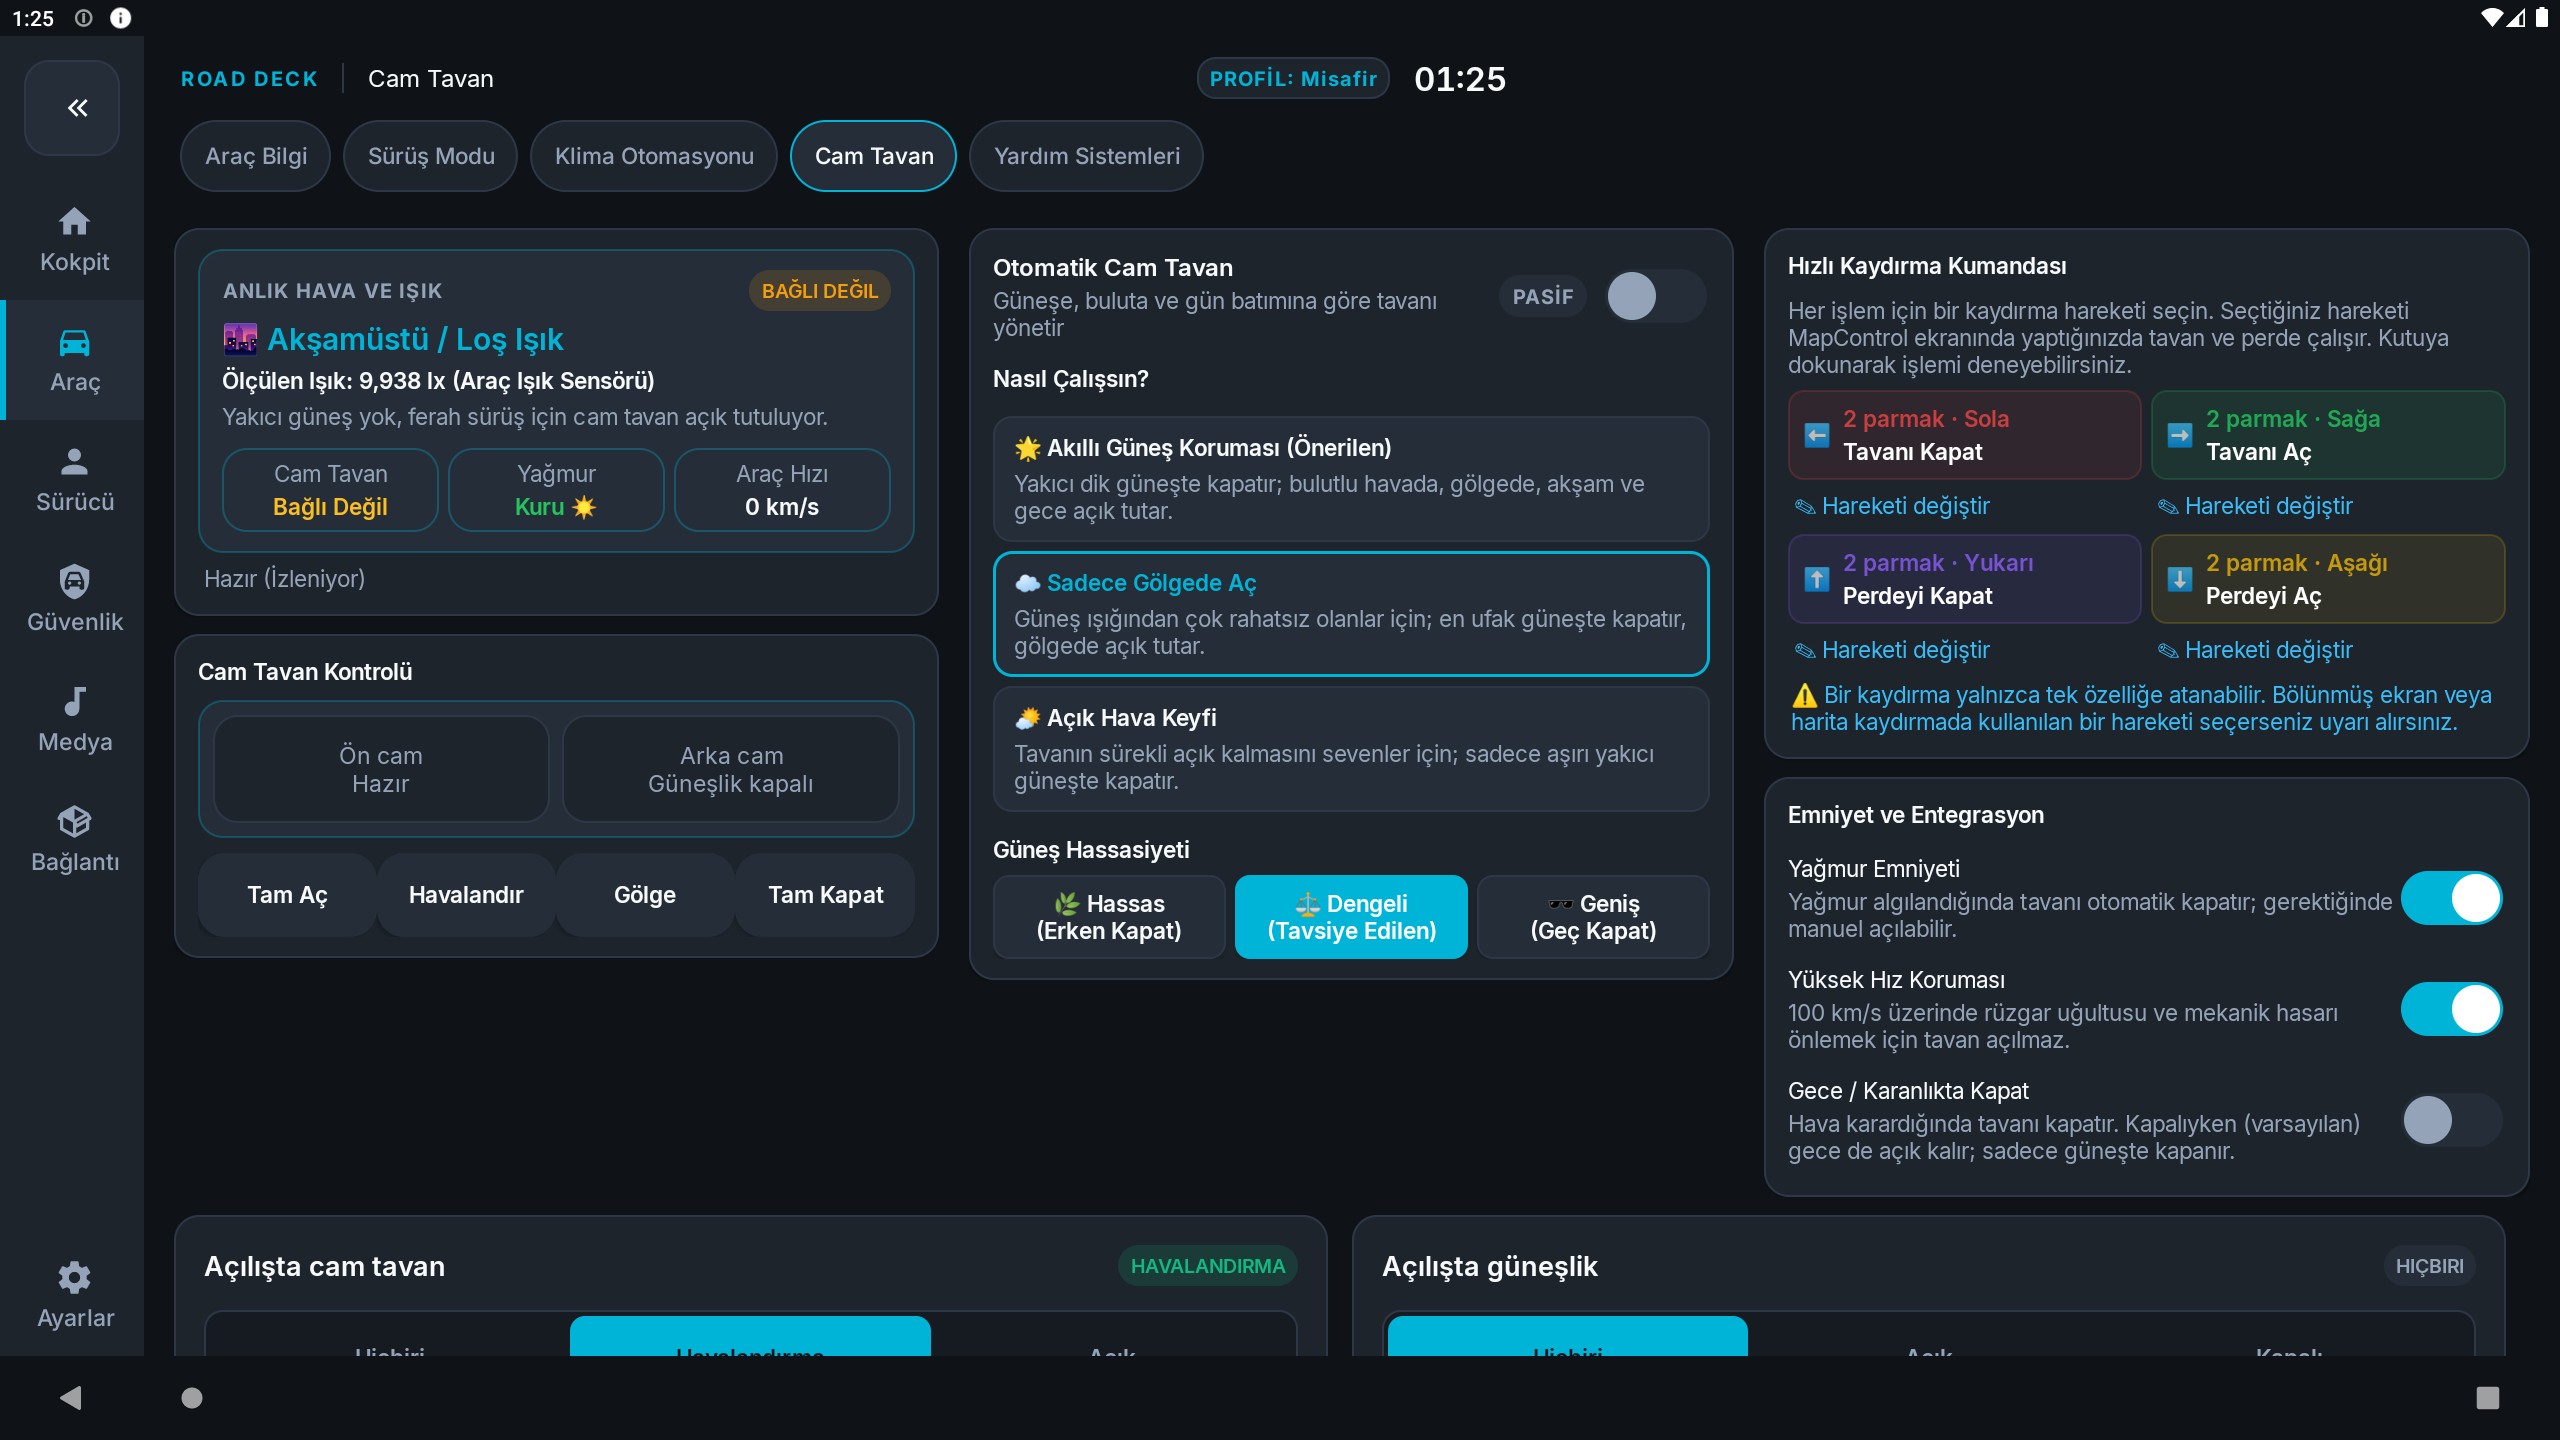
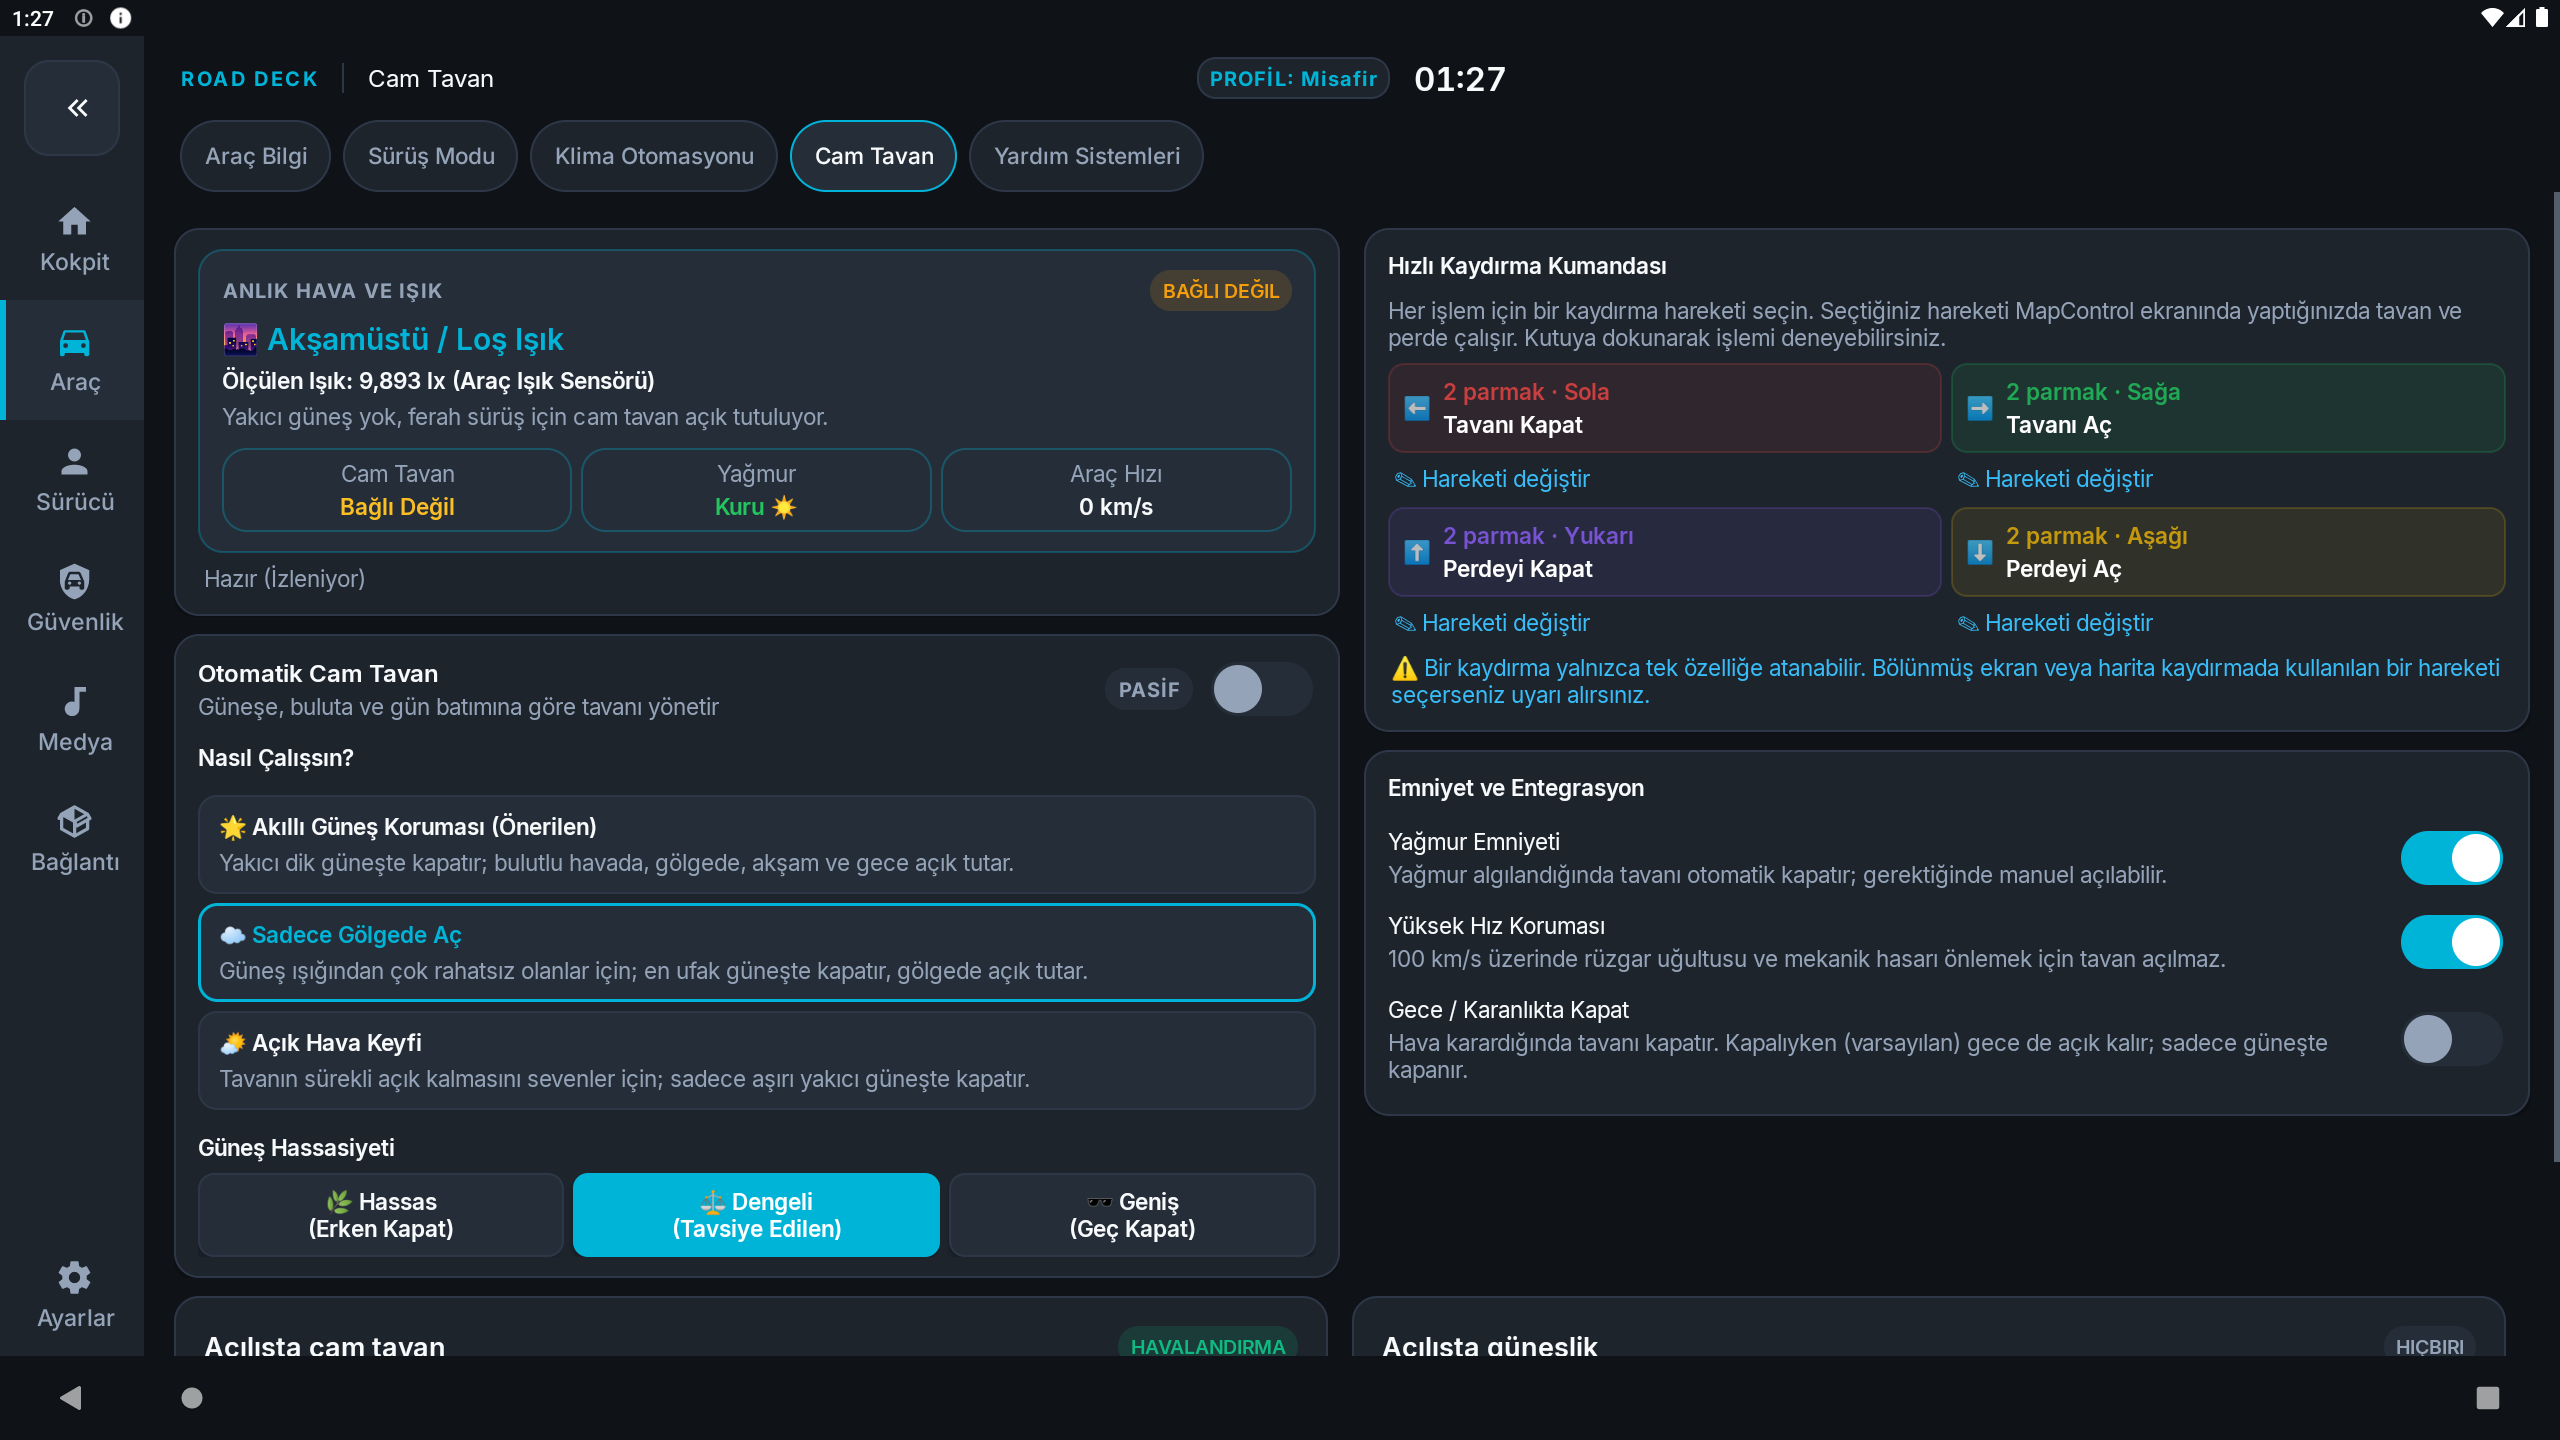
fix: cam tavan manuel karti kaldirildi
- Cam Tavan Kontrolu karti kaldirildi
- Iki sutunlu kart duzeni: canli durum + otomasyon / hizli kumanda + emniyet
- Kullanilmayan manuel kontrol stringleri temizlendi

diff --git a/app/src/main/java/com/mapcontrol/ui/builder/SunroofAutomationTabBuilder.java b/app/src/main/java/com/mapcontrol/ui/builder/SunroofAutomationTabBuilder.java
@@ -76,8 +76,6 @@ public final class SunroofAutomationTabBuilder implements SunroofAutomationEngin
     private TextView tvRainState;
     private TextView tvSpeed;
     private TextView tvStatusMessage;
-    private TextView tvManualFront;
-    private TextView tvManualRear;
     private com.mapcontrol.ui.cockpit.StatusBadge liveBadge;
 
     // Ayar View'ları
@@ -123,7 +121,6 @@ public final class SunroofAutomationTabBuilder implements SunroofAutomationEngin
 
         if (isPortrait) {
             root.addView(buildLiveConditionCard(density));
-            root.addView(buildManualSunroofCard(density));
             root.addView(buildAutomationModeCard(density));
             root.addView(buildQuickControlsCard(density));
             root.addView(buildSafetyCard(density));
@@ -132,23 +129,18 @@ public final class SunroofAutomationTabBuilder implements SunroofAutomationEngin
             columns.setOrientation(LinearLayout.HORIZONTAL);
             columns.setBaselineAligned(false);
 
-            LinearLayout colLeft = new LinearLayout(context);
-            colLeft.setOrientation(LinearLayout.VERTICAL);
-            colLeft.addView(buildLiveConditionCard(density));
-            colLeft.addView(buildManualSunroofCard(density));
+            LinearLayout leftColumn = new LinearLayout(context);
+            leftColumn.setOrientation(LinearLayout.VERTICAL);
+            leftColumn.addView(buildLiveConditionCard(density));
+            leftColumn.addView(buildAutomationModeCard(density));
 
-            LinearLayout colCenter = new LinearLayout(context);
-            colCenter.setOrientation(LinearLayout.VERTICAL);
-            colCenter.addView(buildAutomationModeCard(density));
+            LinearLayout rightColumn = new LinearLayout(context);
+            rightColumn.setOrientation(LinearLayout.VERTICAL);
+            rightColumn.addView(buildQuickControlsCard(density));
+            rightColumn.addView(buildSafetyCard(density));
 
-            LinearLayout colRight = new LinearLayout(context);
-            colRight.setOrientation(LinearLayout.VERTICAL);
-            colRight.addView(buildQuickControlsCard(density));
-            colRight.addView(buildSafetyCard(density));
-
-            columns.addView(colLeft, weightedColumn(0, dp(10, density)));
-            columns.addView(colCenter, weightedColumn(dp(10, density), dp(10, density)));
-            columns.addView(colRight, weightedColumn(dp(10, density), 0));
+            columns.addView(leftColumn, weightedCard(0, dp(8, density)));
+            columns.addView(rightColumn, weightedCard(dp(8, density), 0));
             root.addView(columns);
         }
 
@@ -161,7 +153,7 @@ public final class SunroofAutomationTabBuilder implements SunroofAutomationEngin
         return root;
     }
 
-    private LinearLayout.LayoutParams weightedColumn(int left, int right) {
+    private LinearLayout.LayoutParams weightedCard(int left, int right) {
         LinearLayout.LayoutParams lp = new LinearLayout.LayoutParams(
                 0, LinearLayout.LayoutParams.WRAP_CONTENT, 1f);
         lp.leftMargin = left;
@@ -257,92 +249,6 @@ public final class SunroofAutomationTabBuilder implements SunroofAutomationEngin
 
         titleRow.addView(heading, new LinearLayout.LayoutParams(0, LinearLayout.LayoutParams.WRAP_CONTENT, 1f));
         return titleRow;
-    }
-
-    private View buildManualSunroofCard(float density) {
-        LinearLayout card = createPanelCard(density);
-        card.addView(createSectionTitle(context.getString(R.string.ck_sunroof_manual_title), density));
-
-        LinearLayout visual = new LinearLayout(context);
-        visual.setOrientation(LinearLayout.HORIZONTAL);
-        visual.setPadding(dp(10, density), dp(10, density), dp(10, density), dp(10, density));
-        CockpitSurfaces.level2(visual);
-        LinearLayout.LayoutParams visualLp = new LinearLayout.LayoutParams(
-                LinearLayout.LayoutParams.MATCH_PARENT, dp(92, density));
-        visualLp.bottomMargin = dp(10, density);
-        card.addView(visual, visualLp);
-
-        tvManualFront = manualStatePanel(
-                context.getString(R.string.ck_sunroof_front), context.getString(R.string.ck_sunroof_ready));
-        tvManualRear = manualStatePanel(
-                context.getString(R.string.ck_sunroof_rear), context.getString(R.string.ck_sunroof_shade_ready));
-        visual.addView(tvManualFront, new LinearLayout.LayoutParams(0, LinearLayout.LayoutParams.MATCH_PARENT, 1f));
-        LinearLayout.LayoutParams rearLp = new LinearLayout.LayoutParams(
-                0, LinearLayout.LayoutParams.MATCH_PARENT, 1f);
-        rearLp.leftMargin = dp(8, density);
-        visual.addView(tvManualRear, rearLp);
-
-        LinearLayout actions = new LinearLayout(context);
-        actions.setOrientation(LinearLayout.HORIZONTAL);
-        actions.setBaselineAligned(false);
-        actions.addView(manualButton(context.getString(R.string.ck_sunroof_manual_open), () -> {
-            if (sunroofController.openSunroof(true)) {
-                tvManualFront.setText(context.getString(R.string.ck_sunroof_front) + "\n"
-                        + context.getString(R.string.ck_sunroof_opening));
-            }
-        }, density), new LinearLayout.LayoutParams(0, dp(56, density), 1f));
-        actions.addView(manualButton(context.getString(R.string.ck_sunroof_manual_vent), () -> {
-            if (sunroofController.tiltSunroof()) {
-                tvManualFront.setText(context.getString(R.string.ck_sunroof_front) + "\n"
-                        + context.getString(R.string.ck_sunroof_venting));
-            }
-        }, density), new LinearLayout.LayoutParams(0, dp(56, density), 1f));
-        actions.addView(manualButton(context.getString(R.string.ck_sunroof_manual_shade), () -> {
-            if (sunroofController.openSunshadeOnly()) {
-                tvManualRear.setText(context.getString(R.string.ck_sunroof_rear) + "\n"
-                        + context.getString(R.string.ck_sunroof_shade_open));
-            }
-        }, density), new LinearLayout.LayoutParams(0, dp(56, density), 1f));
-        actions.addView(manualButton(context.getString(R.string.ck_sunroof_manual_close), () -> {
-            if (sunroofController.closeSunroof(true)) {
-                tvManualFront.setText(context.getString(R.string.ck_sunroof_front) + "\n"
-                        + context.getString(R.string.ck_sunroof_closing));
-            }
-        }, density), new LinearLayout.LayoutParams(0, dp(56, density), 1f));
-        card.addView(actions);
-        return card;
-    }
-
-    private TextView manualStatePanel(String label, String value) {
-        TextView view = new TextView(context);
-        CockpitTokens.bodySm(view);
-        view.setText(label + "\n" + value);
-        view.setGravity(Gravity.CENTER);
-        view.setTextColor(CockpitTokens.color(context, R.color.ck_text_medium));
-        CockpitSurfaces.level1(view);
-        return view;
-    }
-
-    private Button manualButton(String label, Runnable action, float density) {
-        Button button = new Button(context);
-        button.setText(label);
-        button.setTextSize(12);
-        button.setAllCaps(false);
-        button.setTextColor(CockpitTokens.color(context, R.color.ck_text_high));
-        button.setMinHeight(dp(56, density));
-        button.setPadding(dp(4, density), 0, dp(4, density), 0);
-        button.setBackground(CockpitSurfaces.rounded(context,
-                CockpitTokens.color(context, R.color.ck_surface_2),
-                context.getResources().getDisplayMetrics().density * 12f));
-        button.setOnClickListener(v -> {
-            if (!sunroofController.isConnected()) {
-                Toast.makeText(context, R.string.ck_sunroof_not_connected, Toast.LENGTH_SHORT).show();
-                return;
-            }
-            action.run();
-            callback.log("Cam tavan kumandası: " + label);
-        });
-        return button;
     }
 
     /**
@@ -942,16 +848,6 @@ public final class SunroofAutomationTabBuilder implements SunroofAutomationEngin
                 liveBadge.setLevel(status.connected ? StatusBadge.NOMINAL : StatusBadge.ADVISORY);
                 liveBadge.setText(context.getString(status.connected
                         ? R.string.ck_sunroof_canbus_online : R.string.ck_sunroof_not_connected));
-            }
-            if (tvManualFront != null && status.sunroofOpen != null) {
-                tvManualFront.setText(context.getString(R.string.ck_sunroof_front) + "\n"
-                        + context.getString(status.sunroofOpen
-                        ? R.string.ck_sunroof_open : R.string.ck_sunroof_closed));
-            }
-            if (tvManualRear != null) {
-                tvManualRear.setText(context.getString(R.string.ck_sunroof_rear) + "\n"
-                        + context.getString(status.sunshadeOpen
-                        ? R.string.ck_sunroof_shade_open : R.string.ck_sunroof_shade_closed));
             }
             if (tvLiveLux != null) {
                 if (status.currentLux < 0) {
